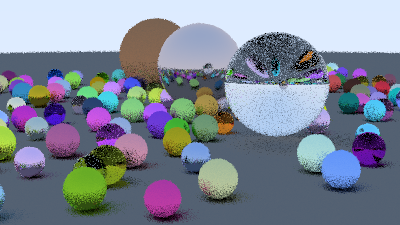
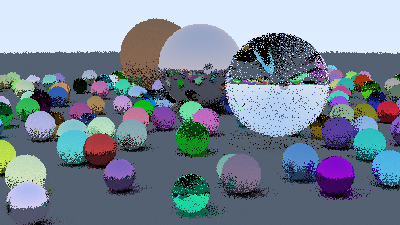
Wip refactoring 2

diff --git a/src/render.rs b/src/render.rs
@@ -1,24 +1,39 @@
-use std::ops::Add;
 use std::time::Instant;
 
 use image::{ImageBuffer, Pixel, Rgb};
-use rand::rngs::SmallRng;
-use rand::{random, Rng};
+use rand::random;
 
-use crate::scene::Scene;
-use geometry::utils::random_in_unit_disk;
-use geometry::Cross;
-use geometry::Point;
 use geometry::Ray;
-use geometry::UnitVec;
-use geometry::Vec3;
 
+use crate::scene::{PixelCoord, Scene};
 use crate::utils;
-use crate::utils::{degrees_to_radians, linear_to_gamma};
+use crate::utils::linear_to_gamma;
 
 pub struct Resolution {
     pub width: u32,
     pub height: u32,
+}
+
+pub struct AntiAliasing {
+    pub offsets: Vec<PixelCoord>,
+}
+
+pub enum AAType {
+    Random(usize),
+    RegularGrid(usize),
+}
+
+impl AntiAliasing {
+    pub fn new(aa_type: AAType) -> Self {
+        match aa_type {
+            AAType::Random(n) => AntiAliasing {
+                offsets: vec![[random::<f32>() - 1.0, random::<f32>() - 1.0]; n],
+            },
+            AAType::RegularGrid(n) => {
+                todo!()
+            }
+        }
+    }
 }
 
 pub trait Render {
@@ -28,8 +43,8 @@ pub trait Render {
 pub struct RayTracer {
     pub scene: Scene,
     pub resolution: Resolution,
-    pub antialiasing: u32,
-    // TODO: <-
+    pub antialiasing: Option<AntiAliasing>,
+    // TODO: from config
     pub max_reflections: u32,
 }
 
@@ -60,10 +75,10 @@ impl Render for RayTracer {
     fn render(&self) -> ImageBuffer<Rgb<f32>, Vec<f32>> {
         let mut image = ImageBuffer::new(self.resolution.width, self.resolution.height);
 
-        let mut rng = SmallRng::from_thread_rng();
+        // let mut rng = SmallRng::from_thread_rng();
         // TODO:
         // let aliasing_offsets = [random::<f32>() - 1.0; 40];
-        let aliasing_offsets = 4;
+        // let aliasing_offsets = 4;
         let map_x = |x: f32| x / (self.resolution.width as f32 / 2.0) - 1.0;
         let map_y = |y: f32| y / (self.resolution.height as f32 / 2.0) - 1.0;
 
@@ -71,14 +86,22 @@ impl Render for RayTracer {
         for (x, y, pixel) in image.enumerate_pixels_mut() {
             let mut color = Rgb([0., 0., 0.]);
 
-            for offset in 0..aliasing_offsets {
-                let x = map_x(x as f32 + rng.gen::<f32>());
-                let y = map_y(y as f32 + rng.gen::<f32>());
+            // TODO: None as AA with offsets [0,0]?
+            // .unwrap_or_...?
+            if let Some(aa) = self.antialiasing.as_ref() {
+                for offset in aa.offsets.iter() {
+                    let x = map_x(x as f32 + offset[0]);
+                    let y = map_y(y as f32 + offset[1]);
+                    let ray = self.scene.camera.create_ray(x, y);
+                    color.apply2(&self.ray_color(&ray, 0), |x, y| x + y);
+                }
+                *pixel = linear_to_gamma(color.map(|x| x / aa.offsets.len() as f32))
+            } else {
+                let x = map_x(x as f32);
+                let y = map_y(y as f32);
                 let ray = self.scene.camera.create_ray(x, y);
-                color.apply2(&self.ray_color(&ray, 0), |x, y| x + y);
+                *pixel = linear_to_gamma(self.ray_color(&ray, 0));
             }
-
-            *pixel = linear_to_gamma(color.map(|x| x / aliasing_offsets as f32))
         }
         let finish = Instant::now();
         println!("Render time: {:?}", finish - start);

diff --git a/src/main.rs b/src/main.rs
@@ -4,14 +4,14 @@ use image::buffer::ConvertBuffer;
 use image::{Rgb, RgbImage};
 use rand::random;
 
-use geometry::point::Point;
-use geometry::sphere::Sphere;
-use geometry::vec::Vec3;
+use geometry::Point;
+use geometry::Sphere;
+use geometry::Vec3;
 use rusttracer::material::dielectric::Dielectric;
 use rusttracer::material::lambertian::Lambertian;
 use rusttracer::material::metal::Metal;
 use rusttracer::material::Material;
-use rusttracer::render::{RayTracer, Render, Resolution};
+use rusttracer::render::{AAType, AntiAliasing, RayTracer, Render, Resolution};
 use rusttracer::scene::Object;
 use rusttracer::scene::Scene;
 use rusttracer::scene::{Camera, CameraConfig};
@@ -102,15 +102,13 @@ fn main() {
             // width: 1280,
             // height: 720,
         },
-        antialiasing: 1,
+        // antialiasing: Some(AntiAliasing::new(AAType::Random(4))),
+        antialiasing: None,
         max_reflections: 5,
     };
 
     let image = raytracer.render();
 
     let image: RgbImage = image.convert();
-    image.save("./images/image.png").or_else(|err| {
-        eprintln!("{err}");
-        Err(err)
-    });
+    image.save("./images/image.png").unwrap()
 }

diff --git a/src/material/dielectric.rs b/src/material/dielectric.rs
@@ -4,8 +4,8 @@ use rand::{random, Rng};
 use geometry::Dot;
 use geometry::Ray;
 
-use crate::intersection::Intersection;
 use crate::material::{Material, Scatter};
+use crate::scene::Intersection;
 
 #[derive(Debug, Clone, Copy)]
 pub struct Dielectric {
@@ -24,7 +24,6 @@ impl Material for Dielectric {
     fn scatter(&self, ray: &Ray, intersection: &Intersection) -> Option<Scatter> {
         let on_front = intersection.hit.on_front_side(ray);
         let refract_coef = if on_front {
-            // TODO: check
             1.0 / self.refraction_index
         } else {
             self.refraction_index

diff --git a/src/material/metal.rs b/src/material/metal.rs
@@ -3,8 +3,8 @@ use image::Rgb;
 use geometry::utils::random_unit;
 use geometry::Ray;
 
-use crate::intersection::Intersection;
 use crate::material::{Material, Scatter};
+use crate::scene::Intersection;
 
 #[derive(Debug, Clone, Copy)]
 pub struct Metal {

diff --git a/src/scene/mod.rs b/src/scene/mod.rs
@@ -1,7 +1,11 @@
-mod scene;
-pub use scene::*;
-mod object;
+pub use camera::*;
+pub use intersection::Intersection;
 pub use object::*;
+pub use scene::*;
+
+mod scene;
+
+mod object;
 
 mod camera;
-pub use camera::*;
+mod intersection;

diff --git a/src/scene/scene.rs b/src/scene/scene.rs
@@ -1,6 +1,6 @@
-use crate::intersection::Intersection;
 use crate::material::Material;
 use crate::scene::camera::Camera;
+use crate::scene::intersection::Intersection;
 use crate::scene::object::Object;
 use geometry::Ray;
 

diff --git a/src/material/lambertian.rs b/src/material/lambertian.rs
@@ -1,5 +1,5 @@
-use crate::intersection::Intersection;
 use crate::material::{Material, Scatter};
+use crate::scene::Intersection;
 use geometry::utils::random_unit;
 use geometry::Ray;
 use image::Rgb;

diff --git a/src/scene/camera.rs b/src/scene/camera.rs
@@ -6,7 +6,7 @@ use geometry::Vec3;
 
 use crate::utils::degrees_to_radians;
 
-type Pixel = [u32; 2]; // TODO:
+pub type PixelCoord = [f32; 2]; // TODO:
 
 #[derive(Debug, Default)]
 pub struct Screen {

diff --git a/lib/geometry/src/utils.rs b/lib/geometry/src/utils.rs
@@ -2,7 +2,6 @@ use crate::unit_vec::UnitVec;
 use crate::vec::Vec3;
 use crate::Dot;
 use rand::{random, Rng};
-// TODO: SmallRng
 
 pub fn random_unit() -> UnitVec {
     loop {

diff --git a/src/material/mod.rs b/src/material/mod.rs
@@ -1,4 +1,4 @@
-use crate::intersection::Intersection;
+use crate::scene::Intersection;
 use geometry::Ray;
 use image::Rgb;
 pub mod dielectric;

diff --git a/src/scene/intersection.rs b/src/scene/intersection.rs
@@ -1,5 +1,6 @@
-use geometry::Hit;
 use std::cmp::Ordering;
+
+use geometry::Hit;
 
 use crate::scene::Object;
 

diff --git a/src/lib.rs b/src/lib.rs
@@ -1,6 +1,5 @@
 #![allow(unused)]
 
-pub mod intersection;
 pub mod material;
 pub mod render;
 pub mod scene;
